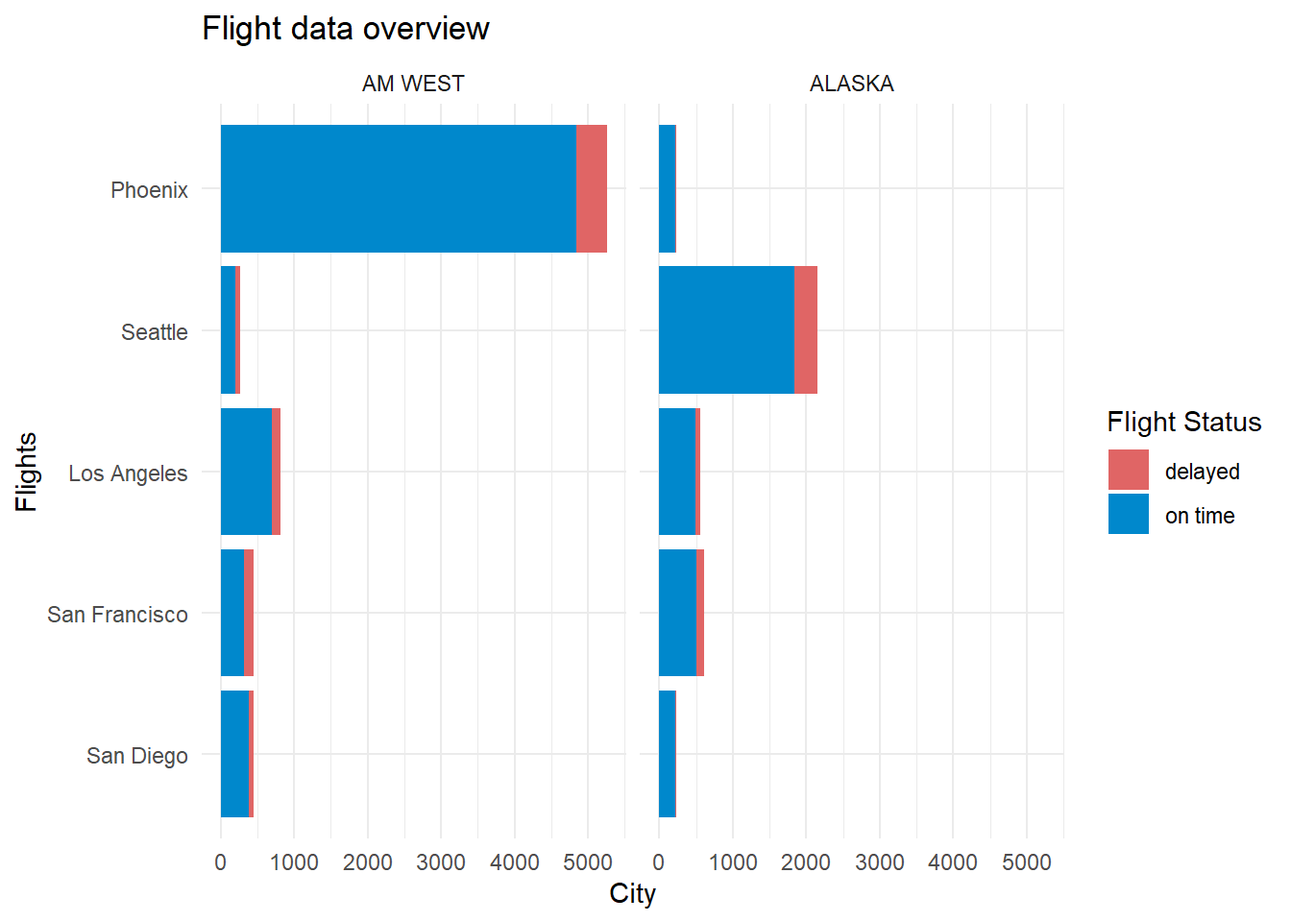
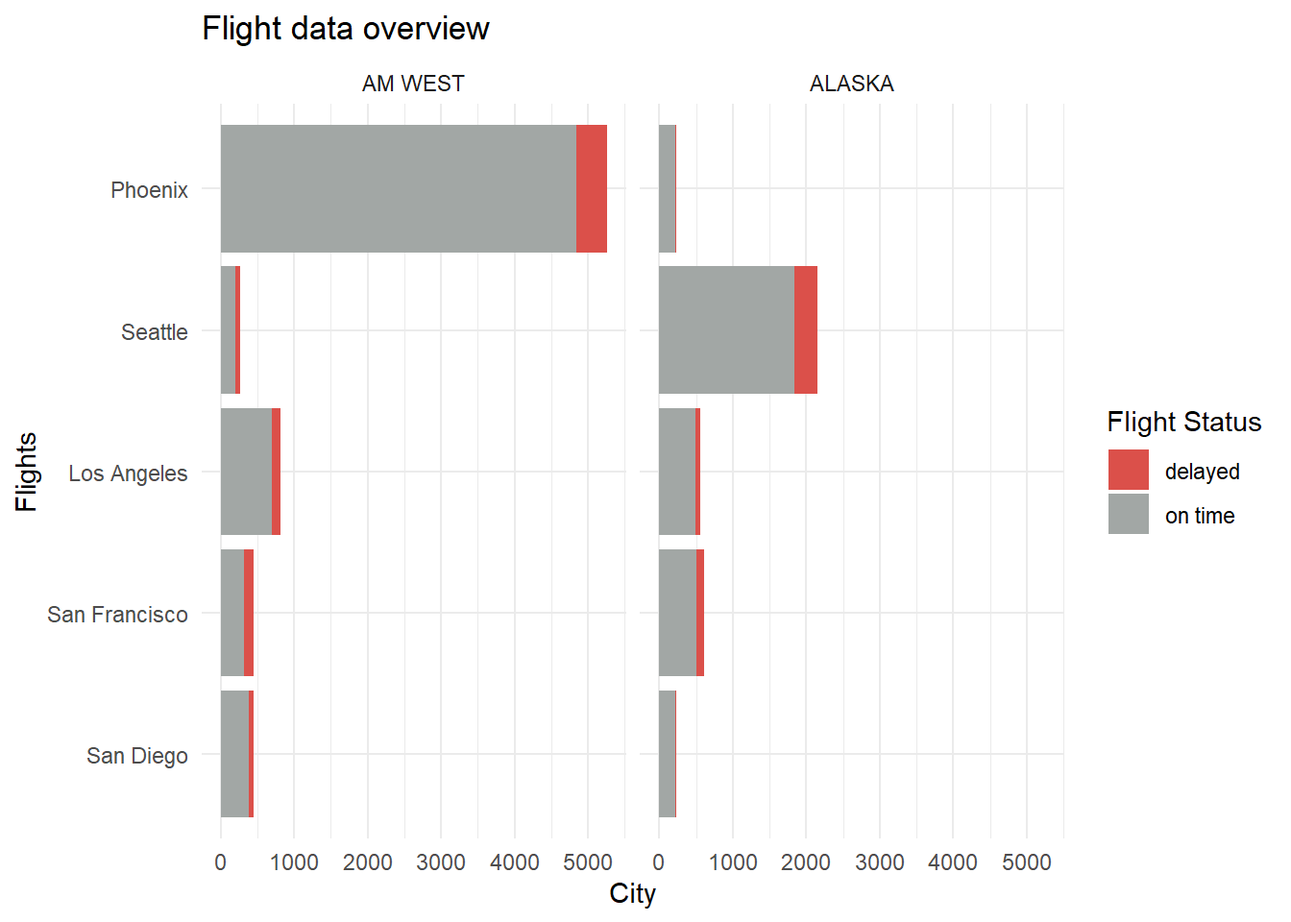
updated assignment_5

Changed region(s): [[0.1562, 0.125, 0.4688, 0.9062], [0.5, 0.125, 0.6562, 0.9062], [0.8438, 0.4688, 0.9062, 0.5938]]

diff --git a/assignment_5_redo/flight_delays.html b/assignment_5_redo/flight_delays.html
@@ -386,7 +386,7 @@ pre > code.sourceCode > span > a:first-child::before { text-decoration: underlin
 <span id="cb5-19"><a href="#cb5-19" aria-hidden="true" tabindex="-1"></a>    <span class="at">x =</span> <span class="st">"City"</span>,</span>
 <span id="cb5-20"><a href="#cb5-20" aria-hidden="true" tabindex="-1"></a>    <span class="at">fill =</span> <span class="st">"Flight Status"</span></span>
 <span id="cb5-21"><a href="#cb5-21" aria-hidden="true" tabindex="-1"></a>  ) <span class="sc">+</span> </span>
-<span id="cb5-22"><a href="#cb5-22" aria-hidden="true" tabindex="-1"></a>  <span class="fu">scale_fill_manual</span>(<span class="at">values =</span> <span class="fu">c</span>(<span class="st">'#E06565'</span>, <span class="st">'#0088CC'</span>)) <span class="sc">+</span></span>
+<span id="cb5-22"><a href="#cb5-22" aria-hidden="true" tabindex="-1"></a>  <span class="fu">scale_fill_manual</span>(<span class="at">values =</span> <span class="fu">c</span>(<span class="st">'#DB504A'</span>, <span class="st">'#A2A7A5'</span>)) <span class="sc">+</span></span>
 <span id="cb5-23"><a href="#cb5-23" aria-hidden="true" tabindex="-1"></a>  <span class="fu">theme_minimal</span>()</span></code><button title="Copy to Clipboard" class="code-copy-button"><i class="bi"></i></button></pre></div>
 <div class="cell-output-display">
 <div>
@@ -398,55 +398,64 @@ pre > code.sourceCode > span > a:first-child::before { text-decoration: underlin
 </div>
 <section id="compare-delayed-flights-across-airlines" class="level3">
 <h3 class="anchored" data-anchor-id="compare-delayed-flights-across-airlines">Compare delayed flights across airlines</h3>
-<p>We can see that out of the total flights, AM West covers a significant proportion, but the rate of delayed versus on time is roughly comparable between the two airlines (~5-6%).</p>
+<p>When comparing airlines by flight status, we can see that the rate of delayed versus on time is roughly comparable between the two airlines, with AM west having about 11% of flights delayed and Alaska having 13%.</p>
 <div class="cell">
 <div class="sourceCode cell-code" id="cb6"><pre class="sourceCode r code-with-copy"><code class="sourceCode r"><span id="cb6-1"><a href="#cb6-1" aria-hidden="true" tabindex="-1"></a>df <span class="sc">|&gt;</span> </span>
-<span id="cb6-2"><a href="#cb6-2" aria-hidden="true" tabindex="-1"></a>  <span class="fu">group_by</span>(flight_status, airline) <span class="sc">|&gt;</span> </span>
-<span id="cb6-3"><a href="#cb6-3" aria-hidden="true" tabindex="-1"></a>  <span class="fu">summarize</span>(<span class="at">flights =</span> <span class="fu">sum</span>(flight_count)) <span class="sc">|&gt;</span> </span>
-<span id="cb6-4"><a href="#cb6-4" aria-hidden="true" tabindex="-1"></a>  <span class="fu">mutate</span>(<span class="at">prop =</span> flights<span class="sc">/</span><span class="fu">sum</span>(flights)) <span class="sc">|&gt;</span> </span>
-<span id="cb6-5"><a href="#cb6-5" aria-hidden="true" tabindex="-1"></a>  <span class="fu">subset</span>(<span class="at">select=</span><span class="fu">c</span>(<span class="st">"flight_status"</span>, <span class="st">"airline"</span>, <span class="st">"prop"</span>)) <span class="sc">|&gt;</span> </span>
-<span id="cb6-6"><a href="#cb6-6" aria-hidden="true" tabindex="-1"></a>  <span class="fu">spread</span>(flight_status, prop) <span class="sc">|&gt;</span> </span>
-<span id="cb6-7"><a href="#cb6-7" aria-hidden="true" tabindex="-1"></a>  <span class="fu">kable</span>()</span></code><button title="Copy to Clipboard" class="code-copy-button"><i class="bi"></i></button></pre></div>
-<div class="cell-output cell-output-stderr">
-<pre><code>`summarise()` has grouped output by 'flight_status'. You can override using the
-`.groups` argument.</code></pre>
-</div>
+<span id="cb6-2"><a href="#cb6-2" aria-hidden="true" tabindex="-1"></a>  <span class="fu">group_by</span>(airline, flight_status) <span class="sc">|&gt;</span> </span>
+<span id="cb6-3"><a href="#cb6-3" aria-hidden="true" tabindex="-1"></a>  <span class="fu">summarize</span>(<span class="at">flight_count =</span> <span class="fu">sum</span>(flight_count), <span class="at">.groups =</span> <span class="st">"drop"</span>) <span class="sc">|&gt;</span> </span>
+<span id="cb6-4"><a href="#cb6-4" aria-hidden="true" tabindex="-1"></a>  <span class="fu">mutate</span>(<span class="at">prop =</span> flight_count <span class="sc">/</span> <span class="fu">sum</span>(flight_count) <span class="sc">*</span> <span class="dv">100</span>, <span class="at">.by =</span> <span class="fu">c</span>(airline)) <span class="sc">|&gt;</span> </span>
+<span id="cb6-5"><a href="#cb6-5" aria-hidden="true" tabindex="-1"></a>  <span class="fu">kable</span>()</span></code><button title="Copy to Clipboard" class="code-copy-button"><i class="bi"></i></button></pre></div>
 <div class="cell-output-display">
 <table class="caption-top table table-sm table-striped small">
 <thead>
 <tr class="header">
 <th style="text-align: left;">airline</th>
-<th style="text-align: right;">delayed</th>
-<th style="text-align: right;">on time</th>
+<th style="text-align: left;">flight_status</th>
+<th style="text-align: right;">flight_count</th>
+<th style="text-align: right;">prop</th>
 </tr>
 </thead>
 <tbody>
 <tr class="odd">
 <td style="text-align: left;">ALASKA</td>
-<td style="text-align: right;">0.3889752</td>
-<td style="text-align: right;">0.3371087</td>
+<td style="text-align: left;">delayed</td>
+<td style="text-align: right;">501</td>
+<td style="text-align: right;">13.27152</td>
+</tr>
+<tr class="even">
+<td style="text-align: left;">ALASKA</td>
+<td style="text-align: left;">on time</td>
+<td style="text-align: right;">3274</td>
+<td style="text-align: right;">86.72848</td>
+</tr>
+<tr class="odd">
+<td style="text-align: left;">AM WEST</td>
+<td style="text-align: left;">delayed</td>
+<td style="text-align: right;">787</td>
+<td style="text-align: right;">10.89273</td>
 </tr>
 <tr class="even">
 <td style="text-align: left;">AM WEST</td>
-<td style="text-align: right;">0.6110248</td>
-<td style="text-align: right;">0.6628913</td>
+<td style="text-align: left;">on time</td>
+<td style="text-align: right;">6438</td>
+<td style="text-align: right;">89.10727</td>
 </tr>
 </tbody>
 </table>
 </div>
 </div>
 <div class="cell">
-<div class="sourceCode cell-code" id="cb8"><pre class="sourceCode r code-with-copy"><code class="sourceCode r"><span id="cb8-1"><a href="#cb8-1" aria-hidden="true" tabindex="-1"></a><span class="co"># Plot amount of delayed flights by city</span></span>
-<span id="cb8-2"><a href="#cb8-2" aria-hidden="true" tabindex="-1"></a><span class="fu">ggplot</span>(df, <span class="fu">aes</span>(<span class="at">x =</span> airline, <span class="at">y =</span> flight_count, <span class="at">fill =</span> flight_status)) <span class="sc">+</span></span>
-<span id="cb8-3"><a href="#cb8-3" aria-hidden="true" tabindex="-1"></a>  <span class="fu">geom_bar</span>(<span class="at">stat =</span> <span class="st">"identity"</span>, <span class="at">position =</span> <span class="st">"fill"</span>) <span class="sc">+</span> </span>
-<span id="cb8-4"><a href="#cb8-4" aria-hidden="true" tabindex="-1"></a>  <span class="fu">labs</span>(</span>
-<span id="cb8-5"><a href="#cb8-5" aria-hidden="true" tabindex="-1"></a>    <span class="at">x =</span> <span class="st">"Airline"</span>,</span>
-<span id="cb8-6"><a href="#cb8-6" aria-hidden="true" tabindex="-1"></a>    <span class="at">y =</span> <span class="st">"Flights (proportion)"</span>,</span>
-<span id="cb8-7"><a href="#cb8-7" aria-hidden="true" tabindex="-1"></a>    <span class="at">title =</span> <span class="st">" Proportion of flights delayed by airline"</span>,</span>
-<span id="cb8-8"><a href="#cb8-8" aria-hidden="true" tabindex="-1"></a>    <span class="at">fill =</span> <span class="st">"Flight Status"</span></span>
-<span id="cb8-9"><a href="#cb8-9" aria-hidden="true" tabindex="-1"></a>  ) <span class="sc">+</span></span>
-<span id="cb8-10"><a href="#cb8-10" aria-hidden="true" tabindex="-1"></a>  <span class="fu">scale_fill_manual</span>(<span class="at">values =</span> <span class="fu">c</span>(<span class="st">'#E06565'</span>, <span class="st">'#0088CC'</span>)) <span class="sc">+</span></span>
-<span id="cb8-11"><a href="#cb8-11" aria-hidden="true" tabindex="-1"></a>  <span class="fu">theme_minimal</span>()</span></code><button title="Copy to Clipboard" class="code-copy-button"><i class="bi"></i></button></pre></div>
+<div class="sourceCode cell-code" id="cb7"><pre class="sourceCode r code-with-copy"><code class="sourceCode r"><span id="cb7-1"><a href="#cb7-1" aria-hidden="true" tabindex="-1"></a><span class="co"># Plot amount of delayed flights by city</span></span>
+<span id="cb7-2"><a href="#cb7-2" aria-hidden="true" tabindex="-1"></a><span class="fu">ggplot</span>(df, <span class="fu">aes</span>(<span class="at">x =</span> airline, <span class="at">y =</span> flight_count, <span class="at">fill =</span> flight_status)) <span class="sc">+</span></span>
+<span id="cb7-3"><a href="#cb7-3" aria-hidden="true" tabindex="-1"></a>  <span class="fu">geom_bar</span>(<span class="at">stat =</span> <span class="st">"identity"</span>, <span class="at">position =</span> <span class="st">"fill"</span>) <span class="sc">+</span> </span>
+<span id="cb7-4"><a href="#cb7-4" aria-hidden="true" tabindex="-1"></a>  <span class="fu">labs</span>(</span>
+<span id="cb7-5"><a href="#cb7-5" aria-hidden="true" tabindex="-1"></a>    <span class="at">x =</span> <span class="st">"Airline"</span>,</span>
+<span id="cb7-6"><a href="#cb7-6" aria-hidden="true" tabindex="-1"></a>    <span class="at">y =</span> <span class="st">"Flights (proportion)"</span>,</span>
+<span id="cb7-7"><a href="#cb7-7" aria-hidden="true" tabindex="-1"></a>    <span class="at">title =</span> <span class="st">" Proportion of flights delayed by airline"</span>,</span>
+<span id="cb7-8"><a href="#cb7-8" aria-hidden="true" tabindex="-1"></a>    <span class="at">fill =</span> <span class="st">"Flight Status"</span></span>
+<span id="cb7-9"><a href="#cb7-9" aria-hidden="true" tabindex="-1"></a>  ) <span class="sc">+</span></span>
+<span id="cb7-10"><a href="#cb7-10" aria-hidden="true" tabindex="-1"></a>  <span class="fu">scale_fill_manual</span>(<span class="at">values =</span> <span class="fu">c</span>(<span class="st">'#DB504A'</span>, <span class="st">'#A2A7A5'</span>)) <span class="sc">+</span></span>
+<span id="cb7-11"><a href="#cb7-11" aria-hidden="true" tabindex="-1"></a>  <span class="fu">theme_minimal</span>()</span></code><button title="Copy to Clipboard" class="code-copy-button"><i class="bi"></i></button></pre></div>
 <div class="cell-output-display">
 <div>
 <figure class="figure">
@@ -459,107 +468,123 @@ pre > code.sourceCode > span > a:first-child::before { text-decoration: underlin
 <section id="compare-delays-across-cities" class="level3">
 <h3 class="anchored" data-anchor-id="compare-delays-across-cities">Compare delays across cities</h3>
 <p>San Francisco generally has the highest rate of delays for both airlines, especially for AM West. We can also see that Phoenix generally has the best rate of on-time flights.</p>
+<p>This chart also demonstrates that when comparing airlines across cities, Alaska has a better rate of on time flights, which contradicts our earlier observation that AM West had more on time flights. This is known as <a href="https://en.wikipedia.org/wiki/Simpson%27s_paradox">Simpson’s Paradox</a>.</p>
 <div class="cell">
-<div class="sourceCode cell-code" id="cb9"><pre class="sourceCode r code-with-copy"><code class="sourceCode r"><span id="cb9-1"><a href="#cb9-1" aria-hidden="true" tabindex="-1"></a><span class="co"># Calculate proportions within each airline-city group</span></span>
-<span id="cb9-2"><a href="#cb9-2" aria-hidden="true" tabindex="-1"></a>df_proportions <span class="ot">&lt;-</span> df <span class="sc">%&gt;%</span></span>
-<span id="cb9-3"><a href="#cb9-3" aria-hidden="true" tabindex="-1"></a>  <span class="fu">group_by</span>(airline, city) <span class="sc">%&gt;%</span></span>
-<span id="cb9-4"><a href="#cb9-4" aria-hidden="true" tabindex="-1"></a>  <span class="fu">mutate</span>(<span class="at">total_flights =</span> <span class="fu">sum</span>(flight_count),</span>
-<span id="cb9-5"><a href="#cb9-5" aria-hidden="true" tabindex="-1"></a>         <span class="at">proportion =</span> flight_count <span class="sc">/</span> total_flights) <span class="sc">%&gt;%</span></span>
-<span id="cb9-6"><a href="#cb9-6" aria-hidden="true" tabindex="-1"></a>  <span class="fu">ungroup</span>()</span>
-<span id="cb9-7"><a href="#cb9-7" aria-hidden="true" tabindex="-1"></a></span>
-<span id="cb9-8"><a href="#cb9-8" aria-hidden="true" tabindex="-1"></a><span class="co"># Reshape the data to wide format with flight_status as columns</span></span>
-<span id="cb9-9"><a href="#cb9-9" aria-hidden="true" tabindex="-1"></a>df_proportions <span class="sc">%&gt;%</span></span>
-<span id="cb9-10"><a href="#cb9-10" aria-hidden="true" tabindex="-1"></a>  <span class="fu">select</span>(airline, city, flight_status, proportion) <span class="sc">%&gt;%</span></span>
-<span id="cb9-11"><a href="#cb9-11" aria-hidden="true" tabindex="-1"></a>  <span class="fu">pivot_wider</span>(<span class="at">names_from =</span> flight_status, <span class="at">values_from =</span> proportion) <span class="sc">|&gt;</span> </span>
-<span id="cb9-12"><a href="#cb9-12" aria-hidden="true" tabindex="-1"></a>  <span class="fu">arrange</span>(airline, city) <span class="sc">|&gt;</span> </span>
-<span id="cb9-13"><a href="#cb9-13" aria-hidden="true" tabindex="-1"></a>  <span class="fu">kable</span>()</span></code><button title="Copy to Clipboard" class="code-copy-button"><i class="bi"></i></button></pre></div>
+<div class="sourceCode cell-code" id="cb8"><pre class="sourceCode r code-with-copy"><code class="sourceCode r"><span id="cb8-1"><a href="#cb8-1" aria-hidden="true" tabindex="-1"></a>on_time_flights <span class="ot">&lt;-</span> df <span class="sc">|&gt;</span> </span>
+<span id="cb8-2"><a href="#cb8-2" aria-hidden="true" tabindex="-1"></a>  <span class="fu">group_by</span>(airline, city) <span class="sc">|&gt;</span> </span>
+<span id="cb8-3"><a href="#cb8-3" aria-hidden="true" tabindex="-1"></a>  <span class="fu">summarise</span>(<span class="at">total_flights =</span> <span class="fu">sum</span>(flight_count), <span class="at">.groups =</span> <span class="st">"drop"</span>) <span class="sc">|&gt;</span>   </span>
+<span id="cb8-4"><a href="#cb8-4" aria-hidden="true" tabindex="-1"></a>  <span class="fu">left_join</span>(df <span class="sc">|&gt;</span> <span class="fu">filter</span>(flight_status <span class="sc">==</span> <span class="st">"on time"</span>) <span class="sc">|&gt;</span>   </span>
+<span id="cb8-5"><a href="#cb8-5" aria-hidden="true" tabindex="-1"></a>              <span class="fu">group_by</span>(airline, city) <span class="sc">|&gt;</span> </span>
+<span id="cb8-6"><a href="#cb8-6" aria-hidden="true" tabindex="-1"></a>              <span class="fu">summarise</span>(<span class="at">on_time_count =</span> <span class="fu">sum</span>(flight_count), <span class="at">.groups =</span> <span class="st">"drop"</span>), </span>
+<span id="cb8-7"><a href="#cb8-7" aria-hidden="true" tabindex="-1"></a>            <span class="at">by =</span> <span class="fu">c</span>(<span class="st">"airline"</span>, <span class="st">"city"</span>)) <span class="sc">|&gt;</span> </span>
+<span id="cb8-8"><a href="#cb8-8" aria-hidden="true" tabindex="-1"></a>  <span class="fu">mutate</span>(<span class="at">percentage =</span> (on_time_count <span class="sc">/</span> total_flights) <span class="sc">*</span> <span class="dv">100</span>) <span class="sc">|&gt;</span> </span>
+<span id="cb8-9"><a href="#cb8-9" aria-hidden="true" tabindex="-1"></a>  <span class="fu">ungroup</span>() </span>
+<span id="cb8-10"><a href="#cb8-10" aria-hidden="true" tabindex="-1"></a></span>
+<span id="cb8-11"><a href="#cb8-11" aria-hidden="true" tabindex="-1"></a><span class="co"># Reorder the cities by total flight count</span></span>
+<span id="cb8-12"><a href="#cb8-12" aria-hidden="true" tabindex="-1"></a>on_time_flights <span class="ot">&lt;-</span> on_time_flights <span class="sc">|&gt;</span> </span>
+<span id="cb8-13"><a href="#cb8-13" aria-hidden="true" tabindex="-1"></a>  <span class="fu">mutate</span>(<span class="at">city =</span> <span class="fu">str_to_title</span>(<span class="fu">str_replace_all</span>(city, <span class="st">"_"</span>, <span class="st">" "</span>)), city) <span class="sc">|&gt;</span> </span>
+<span id="cb8-14"><a href="#cb8-14" aria-hidden="true" tabindex="-1"></a>  <span class="fu">mutate</span>(<span class="at">city =</span> <span class="fu">fct_reorder</span>(city, total_flights))</span>
+<span id="cb8-15"><a href="#cb8-15" aria-hidden="true" tabindex="-1"></a></span>
+<span id="cb8-16"><a href="#cb8-16" aria-hidden="true" tabindex="-1"></a><span class="fu">kable</span>(on_time_flights)</span></code><button title="Copy to Clipboard" class="code-copy-button"><i class="bi"></i></button></pre></div>
 <div class="cell-output-display">
 <table class="caption-top table table-sm table-striped small">
 <thead>
 <tr class="header">
 <th style="text-align: left;">airline</th>
 <th style="text-align: left;">city</th>
-<th style="text-align: right;">on time</th>
-<th style="text-align: right;">delayed</th>
+<th style="text-align: right;">total_flights</th>
+<th style="text-align: right;">on_time_count</th>
+<th style="text-align: right;">percentage</th>
 </tr>
 </thead>
 <tbody>
 <tr class="odd">
 <td style="text-align: left;">ALASKA</td>
-<td style="text-align: left;">los_angeles</td>
-<td style="text-align: right;">0.8890877</td>
-<td style="text-align: right;">0.1109123</td>
+<td style="text-align: left;">Los Angeles</td>
+<td style="text-align: right;">559</td>
+<td style="text-align: right;">497</td>
+<td style="text-align: right;">88.90877</td>
 </tr>
 <tr class="even">
 <td style="text-align: left;">ALASKA</td>
-<td style="text-align: left;">phoenix</td>
-<td style="text-align: right;">0.9484979</td>
-<td style="text-align: right;">0.0515021</td>
+<td style="text-align: left;">Phoenix</td>
+<td style="text-align: right;">233</td>
+<td style="text-align: right;">221</td>
+<td style="text-align: right;">94.84979</td>
 </tr>
 <tr class="odd">
 <td style="text-align: left;">ALASKA</td>
-<td style="text-align: left;">san_diego</td>
-<td style="text-align: right;">0.9137931</td>
-<td style="text-align: right;">0.0862069</td>
+<td style="text-align: left;">San Diego</td>
+<td style="text-align: right;">232</td>
+<td style="text-align: right;">212</td>
+<td style="text-align: right;">91.37931</td>
 </tr>
 <tr class="even">
 <td style="text-align: left;">ALASKA</td>
-<td style="text-align: left;">san_francisco</td>
-<td style="text-align: right;">0.8314050</td>
-<td style="text-align: right;">0.1685950</td>
+<td style="text-align: left;">San Francisco</td>
+<td style="text-align: right;">605</td>
+<td style="text-align: right;">503</td>
+<td style="text-align: right;">83.14050</td>
 </tr>
 <tr class="odd">
 <td style="text-align: left;">ALASKA</td>
-<td style="text-align: left;">seattle</td>
-<td style="text-align: right;">0.8578751</td>
-<td style="text-align: right;">0.1421249</td>
+<td style="text-align: left;">Seattle</td>
+<td style="text-align: right;">2146</td>
+<td style="text-align: right;">1841</td>
+<td style="text-align: right;">85.78751</td>
 </tr>
 <tr class="even">
 <td style="text-align: left;">AM WEST</td>
-<td style="text-align: left;">los_angeles</td>
-<td style="text-align: right;">0.8557337</td>
-<td style="text-align: right;">0.1442663</td>
+<td style="text-align: left;">Los Angeles</td>
+<td style="text-align: right;">811</td>
+<td style="text-align: right;">694</td>
+<td style="text-align: right;">85.57337</td>
 </tr>
 <tr class="odd">
 <td style="text-align: left;">AM WEST</td>
-<td style="text-align: left;">phoenix</td>
-<td style="text-align: right;">0.9210276</td>
-<td style="text-align: right;">0.0789724</td>
+<td style="text-align: left;">Phoenix</td>
+<td style="text-align: right;">5255</td>
+<td style="text-align: right;">4840</td>
+<td style="text-align: right;">92.10276</td>
 </tr>
 <tr class="even">
 <td style="text-align: left;">AM WEST</td>
-<td style="text-align: left;">san_diego</td>
-<td style="text-align: right;">0.8549107</td>
-<td style="text-align: right;">0.1450893</td>
+<td style="text-align: left;">San Diego</td>
+<td style="text-align: right;">448</td>
+<td style="text-align: right;">383</td>
+<td style="text-align: right;">85.49107</td>
 </tr>
 <tr class="odd">
 <td style="text-align: left;">AM WEST</td>
-<td style="text-align: left;">san_francisco</td>
-<td style="text-align: right;">0.7126949</td>
-<td style="text-align: right;">0.2873051</td>
+<td style="text-align: left;">San Francisco</td>
+<td style="text-align: right;">449</td>
+<td style="text-align: right;">320</td>
+<td style="text-align: right;">71.26949</td>
 </tr>
 <tr class="even">
 <td style="text-align: left;">AM WEST</td>
-<td style="text-align: left;">seattle</td>
-<td style="text-align: right;">0.7671756</td>
-<td style="text-align: right;">0.2328244</td>
+<td style="text-align: left;">Seattle</td>
+<td style="text-align: right;">262</td>
+<td style="text-align: right;">201</td>
+<td style="text-align: right;">76.71756</td>
 </tr>
 </tbody>
 </table>
 </div>
 </div>
 <div class="cell">
-<div class="sourceCode cell-code" id="cb10"><pre class="sourceCode r code-with-copy"><code class="sourceCode r"><span id="cb10-1"><a href="#cb10-1" aria-hidden="true" tabindex="-1"></a><span class="fu">ggplot</span>(df, <span class="fu">aes</span>(<span class="at">y =</span> <span class="fu">str_to_title</span>(<span class="fu">str_replace_all</span>(city, <span class="st">"_"</span>, <span class="st">" "</span>)), <span class="at">x =</span> flight_count, <span class="at">fill =</span> flight_status)) <span class="sc">+</span></span>
-<span id="cb10-2"><a href="#cb10-2" aria-hidden="true" tabindex="-1"></a>  <span class="fu">geom_bar</span>(<span class="at">position =</span> <span class="st">'fill'</span>, <span class="at">stat=</span><span class="st">"identity"</span>) <span class="sc">+</span></span>
-<span id="cb10-3"><a href="#cb10-3" aria-hidden="true" tabindex="-1"></a>  <span class="fu">facet_wrap</span>(<span class="sc">~</span>airline) <span class="sc">+</span></span>
-<span id="cb10-4"><a href="#cb10-4" aria-hidden="true" tabindex="-1"></a>    <span class="fu">labs</span>(</span>
-<span id="cb10-5"><a href="#cb10-5" aria-hidden="true" tabindex="-1"></a>    <span class="at">y =</span> <span class="st">"City"</span>,</span>
-<span id="cb10-6"><a href="#cb10-6" aria-hidden="true" tabindex="-1"></a>    <span class="at">x =</span> <span class="st">"Flights (proportion)"</span>,</span>
-<span id="cb10-7"><a href="#cb10-7" aria-hidden="true" tabindex="-1"></a>    <span class="at">title =</span> <span class="st">" Proportion of flights delayed by airline"</span>,</span>
-<span id="cb10-8"><a href="#cb10-8" aria-hidden="true" tabindex="-1"></a>    <span class="at">fill =</span> <span class="st">"Flight Status"</span></span>
-<span id="cb10-9"><a href="#cb10-9" aria-hidden="true" tabindex="-1"></a>  ) <span class="sc">+</span></span>
-<span id="cb10-10"><a href="#cb10-10" aria-hidden="true" tabindex="-1"></a>  <span class="fu">scale_fill_manual</span>(<span class="at">values =</span> <span class="fu">c</span>(<span class="st">'#E06565'</span>, <span class="st">'#0088CC'</span>)) <span class="sc">+</span></span>
-<span id="cb10-11"><a href="#cb10-11" aria-hidden="true" tabindex="-1"></a>  <span class="fu">theme_minimal</span>()</span></code><button title="Copy to Clipboard" class="code-copy-button"><i class="bi"></i></button></pre></div>
+<div class="sourceCode cell-code" id="cb9"><pre class="sourceCode r code-with-copy"><code class="sourceCode r"><span id="cb9-1"><a href="#cb9-1" aria-hidden="true" tabindex="-1"></a><span class="co"># Graph side-by-side columns</span></span>
+<span id="cb9-2"><a href="#cb9-2" aria-hidden="true" tabindex="-1"></a><span class="fu">ggplot</span>(on_time_flights, <span class="fu">aes</span>(<span class="at">x =</span> city, <span class="at">y =</span> percentage, <span class="at">fill =</span> airline)) <span class="sc">+</span></span>
+<span id="cb9-3"><a href="#cb9-3" aria-hidden="true" tabindex="-1"></a>  <span class="fu">geom_col</span>(<span class="at">position =</span> <span class="st">"dodge"</span>) <span class="sc">+</span></span>
+<span id="cb9-4"><a href="#cb9-4" aria-hidden="true" tabindex="-1"></a>  <span class="fu">geom_text</span>(<span class="fu">aes</span>(<span class="at">label =</span> <span class="fu">sprintf</span>(<span class="st">"%.1f%%"</span>, percentage)), </span>
+<span id="cb9-5"><a href="#cb9-5" aria-hidden="true" tabindex="-1"></a>            <span class="at">position =</span> <span class="fu">position_dodge</span>(<span class="at">width =</span> <span class="fl">0.9</span>), </span>
+<span id="cb9-6"><a href="#cb9-6" aria-hidden="true" tabindex="-1"></a>            <span class="at">vjust =</span> <span class="sc">-</span><span class="fl">0.5</span>, <span class="at">size =</span> <span class="dv">3</span>) <span class="sc">+</span></span>
+<span id="cb9-7"><a href="#cb9-7" aria-hidden="true" tabindex="-1"></a>  <span class="fu">labs</span>(<span class="at">title =</span> <span class="st">"Percentage of flights on time per city"</span>, </span>
+<span id="cb9-8"><a href="#cb9-8" aria-hidden="true" tabindex="-1"></a>       <span class="at">x =</span> <span class="st">"City"</span>, </span>
+<span id="cb9-9"><a href="#cb9-9" aria-hidden="true" tabindex="-1"></a>       <span class="at">y =</span> <span class="st">"Percentage of On Time Flights (%)"</span>,</span>
+<span id="cb9-10"><a href="#cb9-10" aria-hidden="true" tabindex="-1"></a>       <span class="at">fill =</span> <span class="st">"Airline"</span>) <span class="sc">+</span></span>
+<span id="cb9-11"><a href="#cb9-11" aria-hidden="true" tabindex="-1"></a>  <span class="fu">theme_minimal</span>() <span class="sc">+</span></span>
+<span id="cb9-12"><a href="#cb9-12" aria-hidden="true" tabindex="-1"></a>  <span class="fu">scale_fill_manual</span>(<span class="at">values =</span> <span class="fu">c</span>(<span class="st">'#00274A'</span>, <span class="st">'#007561'</span>)) <span class="co"># Respective airline colors</span></span></code><button title="Copy to Clipboard" class="code-copy-button"><i class="bi"></i></button></pre></div>
 <div class="cell-output-display">
 <div>
 <figure class="figure">
@@ -576,7 +601,7 @@ pre > code.sourceCode > span > a:first-child::before { text-decoration: underlin
 </section>
 <section id="conclusion" class="level2">
 <h2 class="anchored" data-anchor-id="conclusion">Conclusion</h2>
-<p>In this article we took a generated a simple dataset of flight data, tidied it into a proper long format for data analysis, then created visualizations to explore and understand how the rates of flight delays compare across airlines and cities.</p>
+<p>In this article we took a generated a simple dataset of flight data, tidied it into a proper long format for data analysis, then created visualizations to explore and understand how the rates of flight delays compare across airlines and cities. We identified a Simpson’s Paradox when comparing the rate of flights on time between airlines, and then subsequently per airline per city, each of which suggested a different preferred airline.</p>
 </section>
 
 </main>
